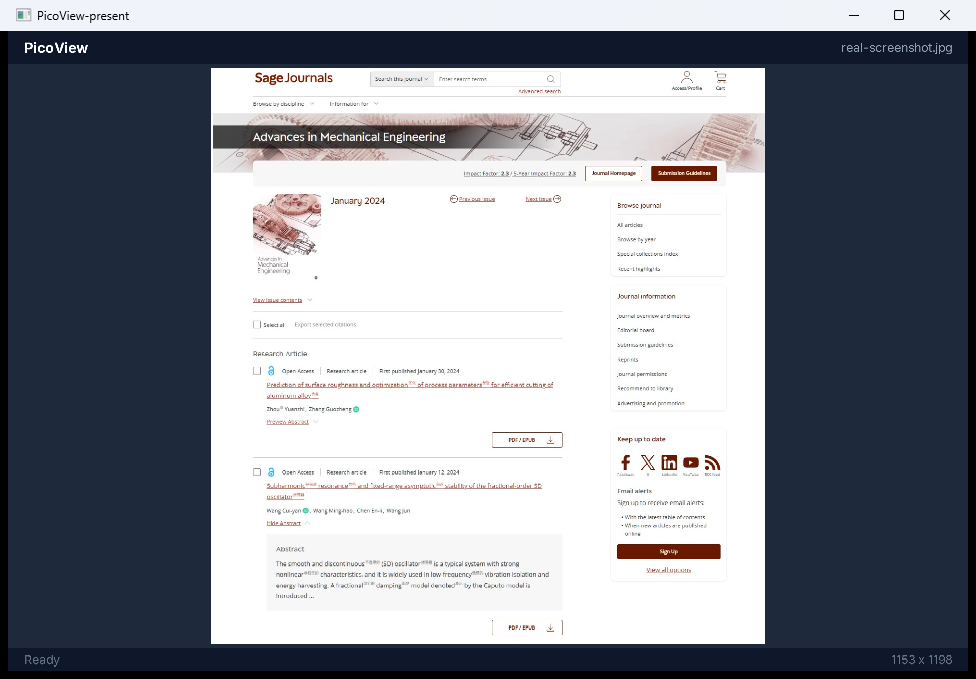
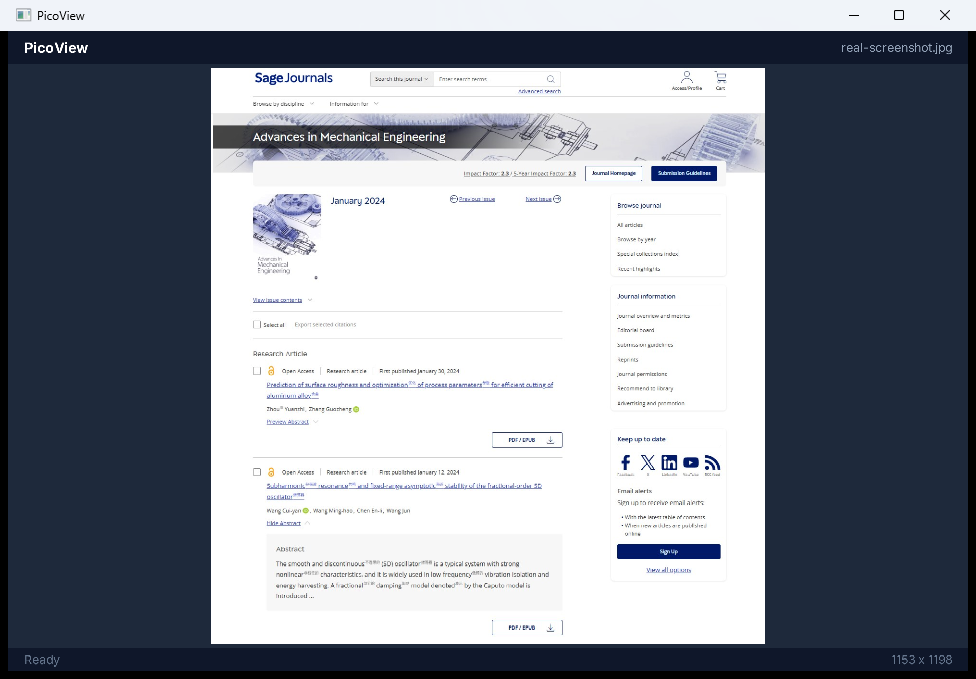
fix: preserve canonical PSM_8888 RGBA image bytes
The normal image path assumed PSM_8888 needed RGBA-to-BGRA byte
swapping and box-resampled every image on the way in. PocketJS
authority (pak compiler: RGBA byte order IS the ABGR u32 LE layout;
wgpu to_rgba8 copies PSM_8888 bytes without a channel swap) shows the
assumption was wrong: canonical PSM_8888 memory bytes are R,G,B,A.

- ordinary images (both axes <= 8192) now register the WIC RGBA decode
  verbatim: no per-pixel resample, no channel reorder
- giant images keep the bounded box-fit, emitting R,G,B,A
- tests: whole-buffer verbatim oracle, asymmetric red/blue/green/magenta
  channel oracle, channel-asymmetric giant-fit oracle
- LiveResource: drop never-read width/height fields
- deterministic 256x128 color fixture + manual captures re-taken on the
  fixed binary (red is red, blue is blue; no white-window regression)
- evidence doc: byte-order wording corrected; idle wording calibrated
  (window/event-loop idle; 60 Hz runtime worker tick unchanged)

diff --git a/native/src/current_item.rs b/native/src/current_item.rs
@@ -57,12 +57,14 @@ pub struct DecodedImage {
 }
 
 /// The native image resource body handed to `register_native_texture`.
-/// For ordinary images (both axes <= MAX_RESOURCE_DIM) this is a pure
-/// RGBA8888 → PSM_8888 word-order pass-through of the full decode: content
-/// resolution is the source resolution, full stop. Only giant images above
-/// the seam's admission ceiling are box-fitted down into it.
+/// For ordinary images (both axes <= MAX_RESOURCE_DIM) this is the canonical
+/// WIC RGBA decode verbatim: PSM_8888 memory bytes ARE R,G,B,A order (the
+/// PocketJS pak compiler is authority — "RGBA byte order IS the ABGR u32 LE
+/// layout"), so content resolution is the source resolution and content bytes
+/// are the decoded bytes, full stop. Only giant images above the seam's
+/// admission ceiling are box-fitted down into it.
 pub struct NativeResource {
-    /// PSM_8888 (little-endian BGRA word order), `width * height * 4` bytes.
+    /// Canonical PSM_8888 bytes (R,G,B,A per pixel), `width * height * 4`.
     pub pixels: Vec<u8>,
     pub width: u32,
     pub height: u32,
@@ -95,10 +97,6 @@ impl OpenError {
 
 struct LiveResource {
     handle: i32,
-    #[allow(dead_code)]
-    width: u32,
-    #[allow(dead_code)]
-    height: u32,
 }
 
 /// Native-side Current Item truth. The guest observes it through svc events
@@ -163,11 +161,7 @@ impl CurrentItem {
             );
             return;
         }
-        self.live = Some(LiveResource {
-            handle,
-            width: res.width,
-            height: res.height,
-        });
+        self.live = Some(LiveResource { handle });
         self.push(
             surface,
             ready_event(generation, &name, handle, res.width, res.height),
@@ -228,19 +222,24 @@ fn bounded(s: &str) -> String {
     out
 }
 
-/// Convert the full decode into the native resource body: RGBA8888 →
-/// PSM_8888 (little-endian BGRA words). Images at or below the seam's
-/// admission ceiling pass through at full source resolution: the sample
-/// window of every output pixel is exactly one input pixel, so pixel count
-/// and every pixel value are preserved — a pure word-order conversion.
-/// Only images above MAX_RESOURCE_DIM on either axis are box-fitted down
-/// into the ceiling (documented bounded degradation for giant images;
-/// viewport paging is a later-slice concern).
+/// Convert the full decode into the native resource body. An ordinary image
+/// (both axes within the seam's admission ceiling) registers the canonical
+/// WIC RGBA bytes verbatim — no conversion, no resample: the resource IS the
+/// decode. Only images above MAX_RESOURCE_DIM on either axis are box-fitted
+/// down into the ceiling (documented bounded degradation for giant images;
+/// viewport paging is a later-slice concern), and the box-fit output stays
+/// in canonical R,G,B,A byte order.
 pub fn native_resource(src: &DecodedImage) -> Result<NativeResource, OpenError> {
+    if src.width <= MAX_RESOURCE_DIM && src.height <= MAX_RESOURCE_DIM {
+        return Ok(NativeResource {
+            pixels: src.rgba.clone(),
+            width: src.width,
+            height: src.height,
+        });
+    }
     let (w, h) = (src.width.max(1), src.height.max(1));
     let scale = (MAX_RESOURCE_DIM as f64 / w as f64)
-        .min(MAX_RESOURCE_DIM as f64 / h as f64)
-        .min(1.0);
+        .min(MAX_RESOURCE_DIM as f64 / h as f64);
     let (cw, ch) = (
         ((w as f64 * scale).round() as u32).clamp(1, MAX_RESOURCE_DIM),
         ((h as f64 * scale).round() as u32).clamp(1, MAX_RESOURCE_DIM),
@@ -266,9 +265,9 @@ pub fn native_resource(src: &DecodedImage) -> Result<NativeResource, OpenError> 
                 }
             }
             let out = (cy * cw + cx) as usize * 4;
-            pixels[out] = (b / n) as u8;
+            pixels[out] = (r / n) as u8;
             pixels[out + 1] = (g / n) as u8;
-            pixels[out + 2] = (r / n) as u8;
+            pixels[out + 2] = (b / n) as u8;
             pixels[out + 3] = (a / n) as u8;
         }
     }
@@ -387,8 +386,8 @@ mod tests {
 
     #[test]
     fn native_resource_preserves_source_resolution_and_pixels() {
-        // Resource dimension oracle: the exact image from the corrective
-        // brief. The registered native resource must carry the FULL source
+        // Dimension + byte oracle: the exact image from the corrective brief.
+        // The registered native resource must carry the FULL source
         // resolution — the old path box-shrank it into a 512x512 pow2
         // envelope (1153x1198 -> 493x512), destroying detail before display.
         let (w, h) = (1153u32, 1198u32);
@@ -411,27 +410,40 @@ mod tests {
         assert_eq!(res.width, w, "resource width must equal source width");
         assert_eq!(res.height, h, "resource height must equal source height");
         assert_eq!(res.pixels.len(), (w * h * 4) as usize);
+        // Strongest ordinary-path oracle: canonical PSM_8888 bytes ARE RGBA,
+        // so the resource must equal the decode byte for byte — no swap, no
+        // resample. (The old path emitted B,G,R,A toward a misread BGRA
+        // convention; asymmetric colors make any channel swap impossible to
+        // miss.)
+        assert_eq!(res.pixels, rgba, "ordinary image bytes must be verbatim");
 
-        // Pixel oracle: RGBA8888 -> PSM_8888 is a pure word-order swap. Sample
-        // corners and a striped interior where the pattern is exact.
-        let sample = |x: u32, y: u32| {
-            let src = ((y * w + x) * 4) as usize;
-            let dst = ((y * w + x) * 4) as usize;
-            (
-                res.pixels[dst] == rgba[src + 2],
-                res.pixels[dst + 1] == rgba[src + 1],
-                res.pixels[dst + 2] == rgba[src],
-                res.pixels[dst + 3] == rgba[src + 3],
-            )
-        };
-        for (x, y) in [(0u32, 0u32), (w - 1, h - 1), (500, 501), (1152, 0)] {
-            let (b, g, r, a) = sample(x, y);
-            assert!(b && g && r && a, "pixel ({x},{y}) must survive word-order swap");
+        // Explicit asymmetric channel oracle: red / blue / green / magenta,
+        // asserted per channel so a failure names the swapped channel.
+        let mut asymmetric = Vec::new();
+        for color in [[255u8, 0, 0, 255], [0, 0, 255, 255], [0, 255, 0, 255], [255, 0, 255, 255]] {
+            asymmetric.extend_from_slice(&color);
         }
+        let res2 = native_resource(&DecodedImage {
+            width: 4,
+            height: 1,
+            rgba: asymmetric.clone(),
+        })
+        .expect("asymmetric oracle passes through");
+        let [red, blue, green, magenta] = [
+            &res2.pixels[0..4],
+            &res2.pixels[4..8],
+            &res2.pixels[8..12],
+            &res2.pixels[12..16],
+        ];
+        assert_eq!(red, &[255, 0, 0, 255], "red must stay R,G,B,A");
+        assert_eq!(blue, &[0, 0, 255, 255], "blue must keep blue in byte 2");
+        assert_eq!(green, &[0, 255, 0, 255], "green must keep green in byte 1");
+        assert_eq!(magenta, &[255, 0, 255, 255], "magenta must keep R and B distinct");
+        assert_eq!(res2.pixels, asymmetric);
 
-        // High-frequency oracle: a 1px checkerboard at 1024x1024. The old
-        // path averaged every 2x2 block into uniform mush on its way into the
-        // 512 envelope; the new path must keep every alternating pixel exact.
+        // High-frequency oracle: a 1px checkerboard at 1024x1024. An ordinary
+        // image must keep its dimensions AND its bytes — the old path averaged
+        // every 2x2 block into uniform mush on its way into the 512 envelope.
         let (cw, chh) = (1024u32, 1024u32);
         let mut check = vec![0u8; (cw * chh * 4) as usize];
         for y in 0..chh {
@@ -444,21 +456,15 @@ mod tests {
                 check[at + 3] = 255;
             }
         }
-        let res2 = native_resource(&DecodedImage {
+        let res3 = native_resource(&DecodedImage {
             width: cw,
             height: chh,
-            rgba: check,
+            rgba: check.clone(),
         })
         .expect("checkerboard passes through");
-        assert_eq!(res2.width, cw);
-        assert_eq!(res2.height, chh);
-        for y in 0..chh {
-            for x in 0..cw {
-                let at = ((y * cw + x) * 4) as usize;
-                let v = if (x + y) % 2 == 0 { 0u8 } else { 255u8 };
-                assert_eq!(res2.pixels[at], v, "checkerboard must stay exact at ({x},{y})");
-            }
-        }
+        assert_eq!(res3.width, cw);
+        assert_eq!(res3.height, chh);
+        assert_eq!(res3.pixels, check, "checkerboard bytes must be verbatim");
     }
 
     #[test]
@@ -466,9 +472,14 @@ mod tests {
         // One axis above the seam's ceiling (8192): the resource is
         // box-fitted into the admission limit, bounded, never rejected, and
         // still large enough that fit-to-window display is GPU minification
-        // of real pixels.
+        // of real pixels. The fill is channel-asymmetric so the oracle also
+        // pins the output byte order: every fitted pixel must come out
+        // R,G,B,A — a B,G,R,A emission would read as swapped constants.
         let (w, h) = (20000u32, 100u32);
-        let rgba = vec![90u8; (w * h * 4) as usize];
+        let mut rgba = vec![0u8; (w * h * 4) as usize];
+        for px in rgba.chunks_exact_mut(4) {
+            px.copy_from_slice(&[17, 34, 51, 255]);
+        }
         let res = native_resource(&DecodedImage {
             width: w,
             height: h,
@@ -479,6 +490,9 @@ mod tests {
         assert_eq!(res.height, (100 * 8192 + w / 2) / w);
         assert!(res.width <= pocketjs_core::NATIVE_TEX_MAX_DIM);
         assert_eq!(res.pixels.len(), (res.width * res.height * 4) as usize);
+        for px in res.pixels.chunks_exact(4) {
+            assert_eq!(px, &[17, 34, 51, 255], "box-fit output must stay R,G,B,A");
+        }
     }
 
     #[cfg(windows)]

diff --git a/docs/PICOVIEW-V1-OPEN-ONE-IMAGE-1-EVIDENCE.md b/docs/PICOVIEW-V1-OPEN-ONE-IMAGE-1-EVIDENCE.md
@@ -56,9 +56,8 @@ Corrective round:
    ABI change, no dependency. Patch → tests → adversarial review (APPROVE) → merge →
    then this repo's lock advanced.
 6. `0b38c0b` — production path rewritten onto the seam: the full-resolution WIC decode
-   is word-order converted (RGBA8888 → PSM_8888) and registered via
-   `register_native_texture(FLAG_LINEAR)`. Images within the seam's admission ceiling
-   (8192/axis) pass through **pixel-exact at full source resolution**; only giant
+   is registered via `register_native_texture(FLAG_LINEAR)`. Images within the seam's
+   admission ceiling (8192/axis) pass through at full source resolution; only giant
    images above the ceiling are box-fitted into it (bounded, documented; viewport
    paging stays deferred). The pow2 ≤512 envelope, its transparent padding, and the
    guest-side crop composition are **deleted**. svc ready events carry width/height
@@ -74,6 +73,15 @@ Corrective round:
    the AMD driver from wgpu's Vulkan/WSI integration (§7.3). The V1 compatibility
    mitigation is finalized as a one-shot swapchain reconfigure before the first present;
    the attention re-present handlers are removed (§7.4).
+9. Final subtraction round (`PICOVIEW-PR49-COLOR-CANONICAL-AND-EVIDENCE-PRUNE-1`) —
+   found an incorrect local assumption that PSM_8888 required RGBA→BGRA byte swapping.
+   PocketJS authority shows canonical PSM_8888 memory bytes are RGBA (the pak compiler
+   registers WIC-identical RGBA bytes verbatim; the wgpu backend's `to_rgba8` copies
+   them without a channel swap); the conversion was deleted and the normal image path
+   now registers WIC RGBA bytes verbatim, eliminating the per-pixel box resample that
+   ran even at 1:1 scale. Giant-image box-fit output stays in R,G,B,A order; a dead
+   `LiveResource` width/height pair was removed; evidence assets were pruned to the
+   minimal reviewable set.
 
 ## 3. Reproduction
 
@@ -90,26 +98,40 @@ native\target\release\picoview.exe --js dist\picoview.js --pak dist\picoview.pak
 ```
 
 `cargo test` (native): **9 passed, 0 failed** — WIC JPEG roundtrip, garbage/missing
-rejection, decode-dimension cap, **resource-dimension oracle (1153×1198 stays
-1153×1198; pixels word-order-exact)**, **high-frequency oracle (1024×1024 1px
-checkerboard survives per-pixel exact — the old path averaged every 2×2 block into
-mush on its way into the 512 envelope)**, **admission-fit oracle (>8192 giant image
-bounded to the ceiling)**, bounded svc scalar events, error-message cap, and the
-real-surface lifecycle test (open → replace retires the first handle without GC;
-corrupt open retires the live handle itself; NotAFile; success after error; explicit
-retire; host/guest texture-key contract lock) — now exercising `register_native_texture`
-on the actual open path.
+rejection, decode-dimension cap, **resource oracle (1153×1198 stays 1153×1198; resource
+bytes == canonical decoded RGBA bytes, whole-buffer verbatim)**, **asymmetric channel
+oracle (red/blue/green/magenta asserted per channel — a B,G,R,A emission cannot pass)**,
+**high-frequency oracle (1024×1024 1px checkerboard: dimensions and bytes unchanged —
+the old path averaged every 2×2 block into mush on its way into the 512 envelope)**,
+**admission-fit oracle (>8192 giant image bounded to the ceiling; channel-asymmetric
+fill proves fitted output stays R,G,B,A)**, bounded svc scalar events, error-message
+cap, and the real-surface lifecycle test (open → replace retires the first handle
+without GC; corrupt open retires the live handle itself; NotAFile; success after error;
+explicit retire; host/guest texture-key contract lock) — now exercising
+`register_native_texture` on the actual open path.
 
 ## 4. Manual proof on real Windows (this machine, this toolchain)
 
+Captured at the color-canonical corrective head (§2 item 9); the earlier capture came
+from the pre-fix binary and is superseded.
+
 - `docs/v1-open-one-image-1/present-real-jpeg.png` — `picoview.exe` opened
   `test-media\real-screenshot.jpg` (1153×1198 Windows screenshot re-encoded as JPEG q90,
-  190,268 bytes; runtime log: `generation=1 handle=Some(0)`). Window shows the presented
-  page image, header filename, footer `Ready 1153 x 1198` — the **true source
-  dimensions**, which now equal the native resource dimensions. The displayed image is
-  fit-to-window GPU minification of the full-resolution resource: page text is sharp,
-  with no envelope resample. Capture method: Win32 `PrintWindow`
-  (PW_RENDERFULLCONTENT) on the live window, first cold launch, no interaction.
+  190,268 bytes). Window shows the presented page image, header filename, footer
+  `Ready 1153 x 1198` — the **true source dimensions**, which equal the native resource
+  dimensions. The displayed image is fit-to-window GPU minification of the
+  full-resolution resource: page text is sharp, with no envelope resample. Capture
+  method: Win32 `PrintWindow` (PW_RENDERFULLCONTENT) on the live window, cold launch,
+  no interaction. This screenshot proves the image was visibly presented; it does not
+  by itself prove channel order — color correctness is pinned by the asymmetric unit
+  oracle (§3) and the color fixture below.
+- `docs/v1-open-one-image-1/present-color-fixture.png` — the deterministic asymmetric
+  color fixture (`test-media\color-fixture.jpg`, 256×128, generated by
+  `experiments/v1-corrective-1/color_fixture.ps1`: RED|BLUE / GREEN|MAGENTA /
+  YELLOW|CYAN). Under the deleted B,G,R,A emission red rendered blue and blue rendered
+  red; the capture shows red as red, blue as blue, green/magenta/yellow/cyan correct,
+  footer `Ready 256 x 128`. Purpose is exactly R/B-swap detection — this is not a
+  color-management claim.
 - `docs/v1-open-one-image-1/error-missing-file.png` — same binary launched with a
   nonexistent path: bounded red message `image path does not exist`, footer `Error`,
   shell fully rendered and usable, no crash, no retry loop, no live resource
@@ -159,6 +181,9 @@ Corrective-round review (two fresh-context reviewers):
   AMD driver, and the PR body still described the superseded ≤512 / 6e631f46 / 2.5 s
   heal design. §7 now limits attribution to what the evidence proves; the PR body is
   rewritten to match the current full-resolution seam and compatibility mitigation.
+- Final subtraction review found the incorrect local PSM_8888 byte-order assumption and
+  its pointlessly resampled normal path (§2 item 9); all fixes and re-validations are in
+  that round.
 
 ## 6. Known limitations (recorded, not gates)
 
@@ -266,8 +291,10 @@ follow-up; none are fabricated here. Full report: jnhu76/PicoView#46 (comment
 (`reconfigure_before_first_present`, `native/src/gpu.rs`) — recreating the swapchain,
 which is the observed effective recovery. This is a bounded **compatibility mitigation**,
 not a claim that the exact lower-layer defect owner has been proven. Event-shaped: no
-timers, no polling, no magic durations; static idle remains `ControlFlow::Wait`
-(verified truly idle in round 1). Removed in this round: the (already deleted) heal's
+timers, no polling, no magic durations; static idle keeps the window
+presentation/event loop idle (`ControlFlow::Wait`) while the runtime worker still
+follows the existing 60 Hz PocketJS tick model — recalibrating that model is not this
+ticket's scope. Removed in this round: the (already deleted) heal's
 replacement Focused/Occluded re-present handlers — recorded runs show they contributed
 no protection (Focused fires pre-frame; re-presents alone did not recover `dbg2`), so
 the final design carries exactly one recovery mechanism. Residual mode without the
